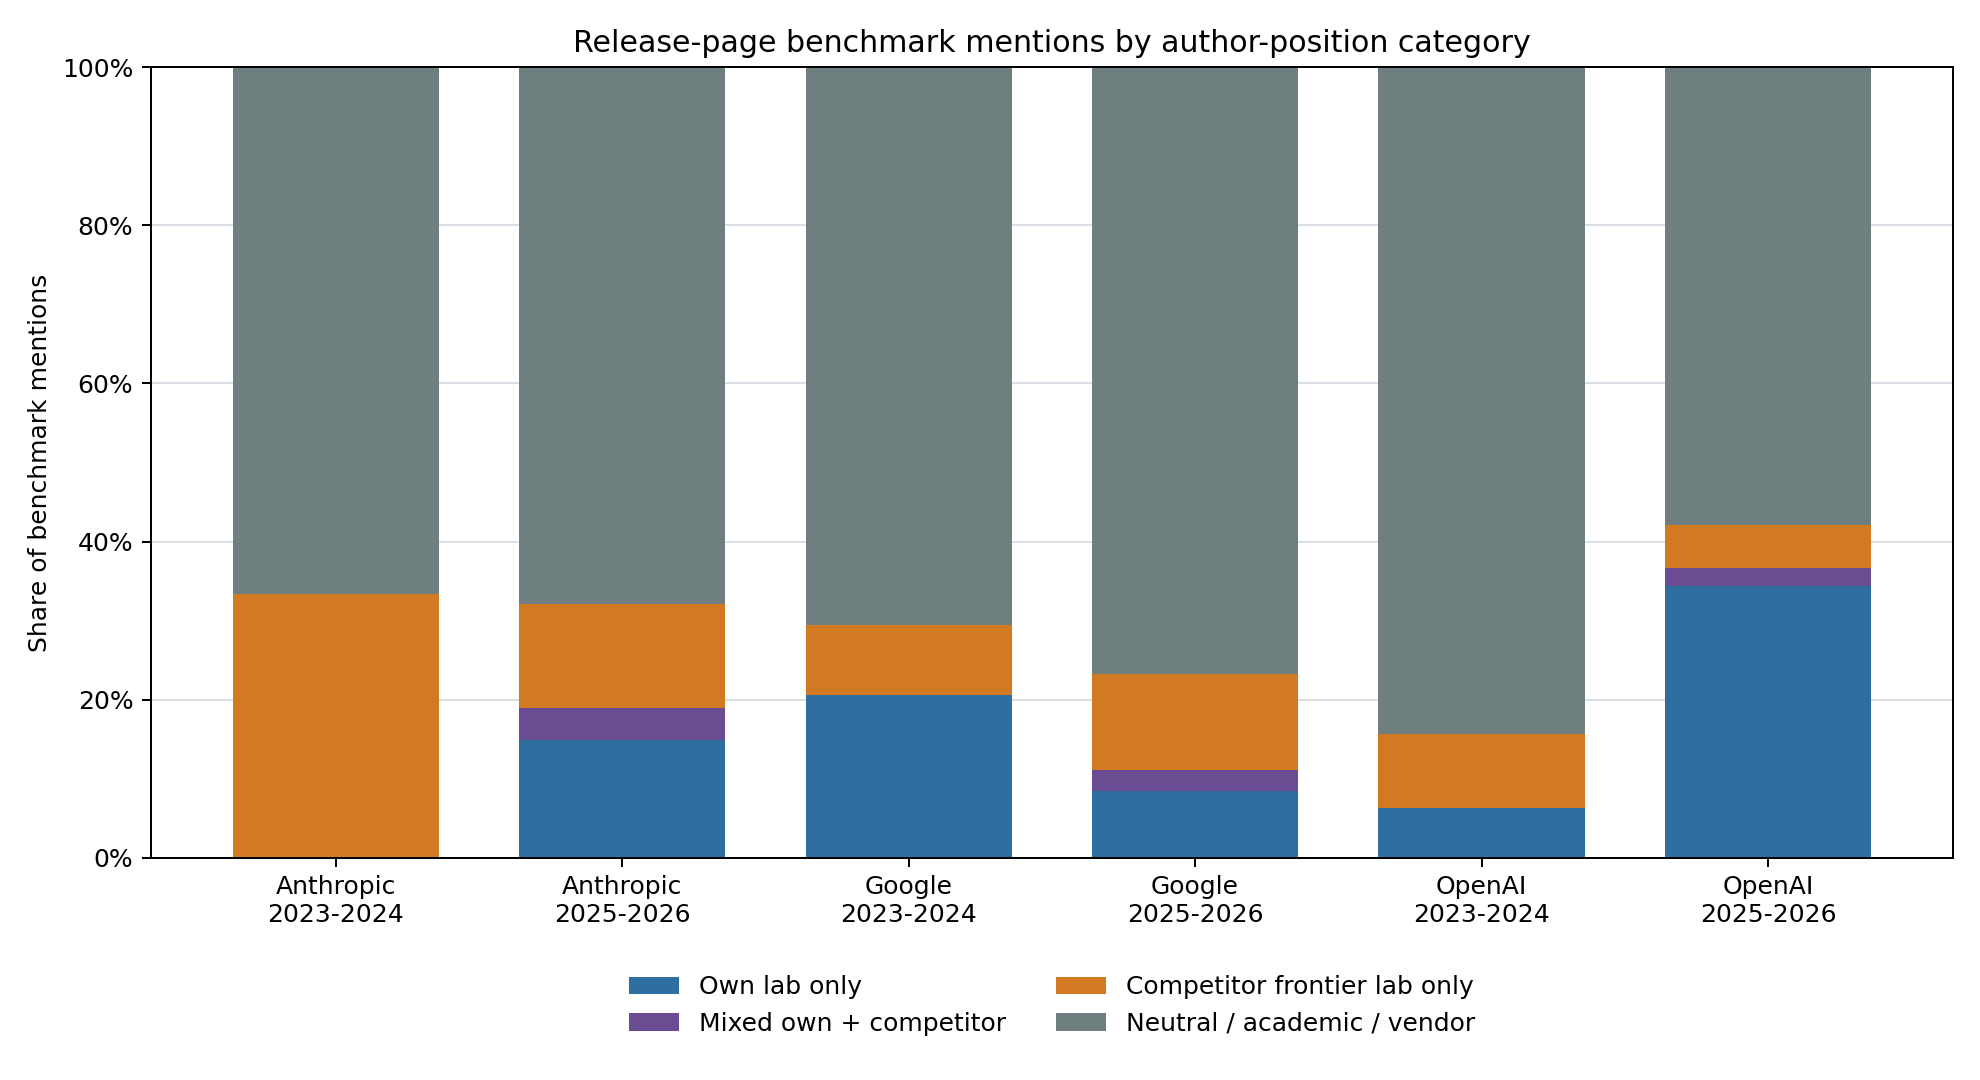
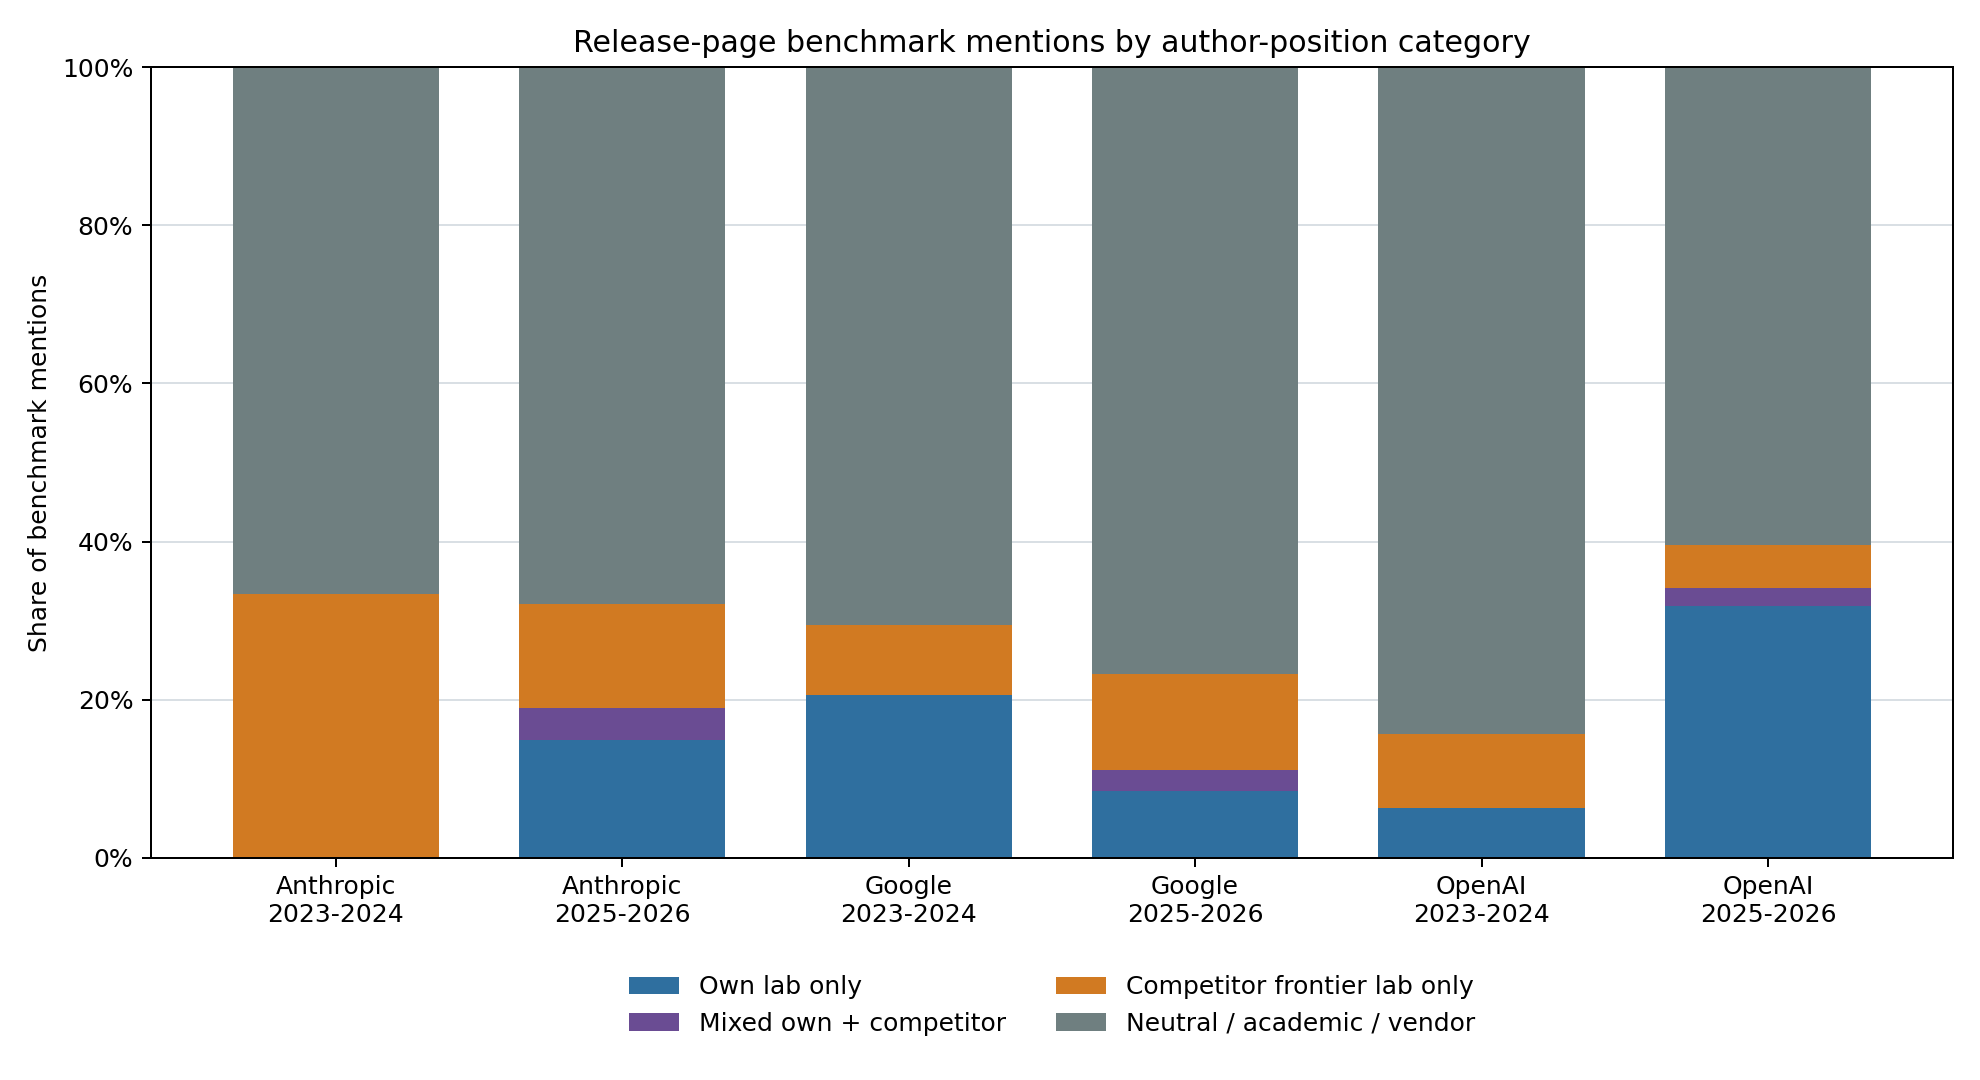
Apply review corrections to affiliations and generated documentation

Changed region(s): [[0.8318, 0.4889, 0.9551, 0.5806]]

diff --git a/analysis/common_snapshot/analyze.py b/analysis/common_snapshot/analyze.py
@@ -161,6 +161,8 @@ def write_markdown(mentions: pd.DataFrame, paths: dict[str, Path]) -> None:
         "This folder contains lightweight baseline tables for the experimental analyses under `analysis/`.",
         "The numbers are derived only from local CSVs and use exact canonical benchmark resolution plus explicit aliases.",
         "",
+        "Counts below use resolved raw mentions; analyses that deduplicate canonical identities within a model-release row can have a smaller count.",
+        "",
         "## Baseline Counts",
         "",
         f"- Resolved benchmark mentions: {len(mentions)}",

diff --git a/docs/data_refresh_2026_10_04.md b/docs/data_refresh_2026_10_04.md
@@ -100,8 +100,9 @@ their former attribution requires archived-source verification. This does not
 establish when the source page changed.
 
 Epoch's primary FrontierMath page identifies OpenAI funding, correcting the
-catalog's earlier Google backing claim. Author is Epoch AI and funding affiliation
-is OpenAI for both the generic and v2 rows. WebDev Arena's primary
+catalog's earlier Google backing claim. Author is Epoch AI. Funding is excluded
+from the repository's author-affiliation field, so both the generic and v2 rows
+retain `none` there. WebDev Arena's primary
 [web.lmarena.ai](https://web.lmarena.ai/) redirects to Arena's Code Arena; its
 earlier Epoch AI author label is corrected to Arena.
 

diff --git a/analysis/common_snapshot/README.md b/analysis/common_snapshot/README.md
@@ -3,7 +3,7 @@
 This folder contains lightweight baseline tables for the experimental analyses under `analysis/`.
 The numbers are derived only from local CSVs and use exact canonical benchmark resolution plus explicit aliases.
 
-The current snapshot includes tracked releases through `2026-09-30`. Counts below use resolved raw mentions; analyses that deduplicate canonical identities within a model-release row can have a smaller count.
+Counts below use resolved raw mentions; analyses that deduplicate canonical identities within a model-release row can have a smaller count.
 
 ## Baseline Counts
 

diff --git a/analysis/ideation_network_dynamics/README.md b/analysis/ideation_network_dynamics/README.md
@@ -73,7 +73,7 @@ Current raw-mention shares:
 | --- | ---: | ---: | ---: |
 | Anthropic | 20.2% | 31.9% | 25.1% |
 | Google | 13.0% | 39.9% | 13.0% |
-| OpenAI | 35.4% | 40.7% | 22.6% |
+| OpenAI | 33.1% | 40.7% | 22.6% |
 
 These flags are non-exclusive and inherit the taxonomy's source and affiliation annotations. Authorship does not establish benchmark control, and provider-created does not imply private. Audit composite authors and provisional lifecycle-risk labels before making evaluation-supply-chain claims.
 
